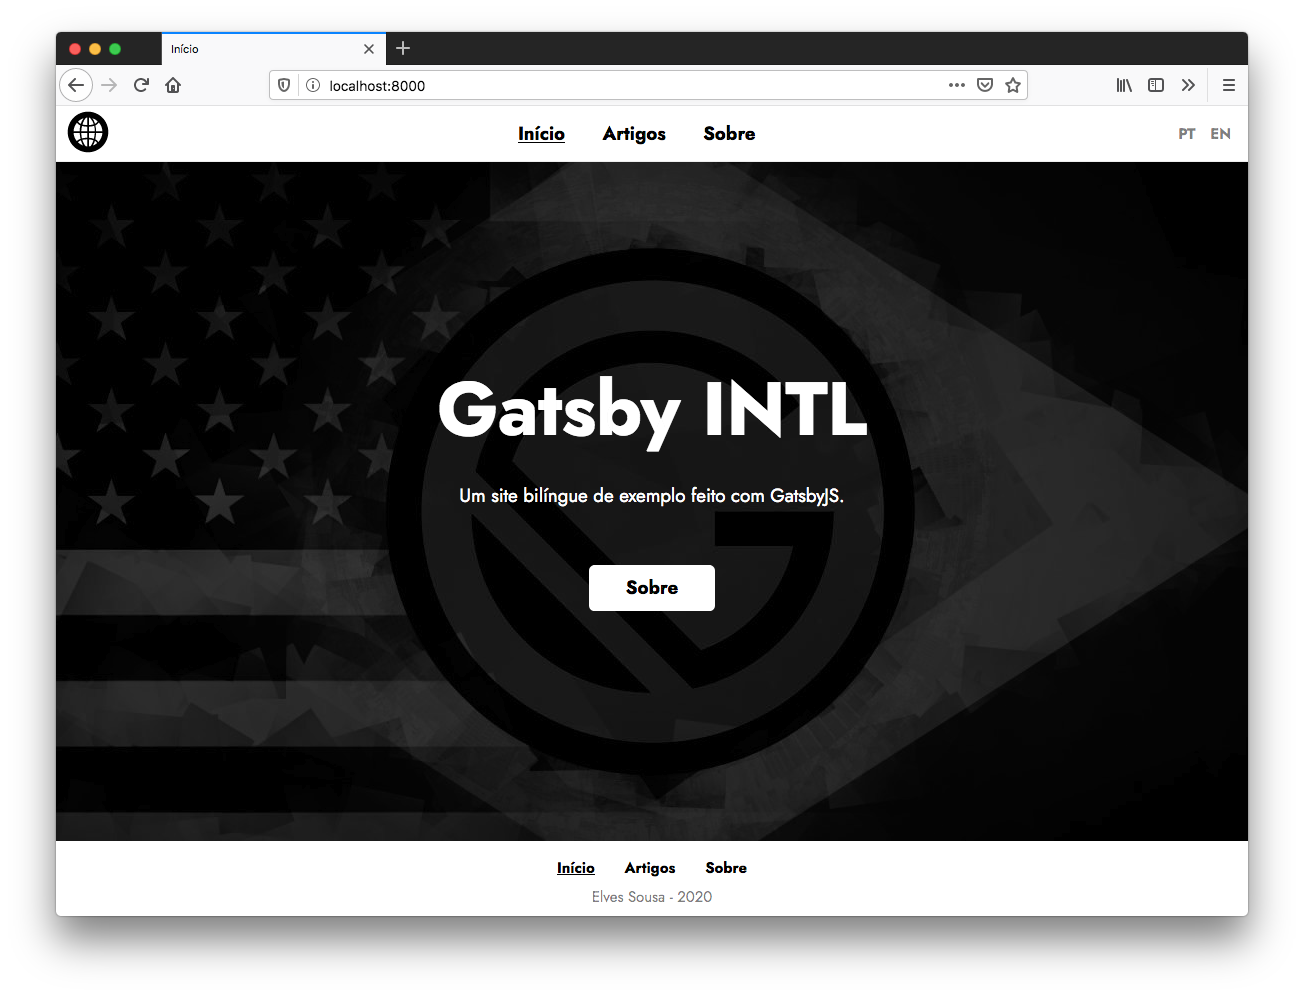
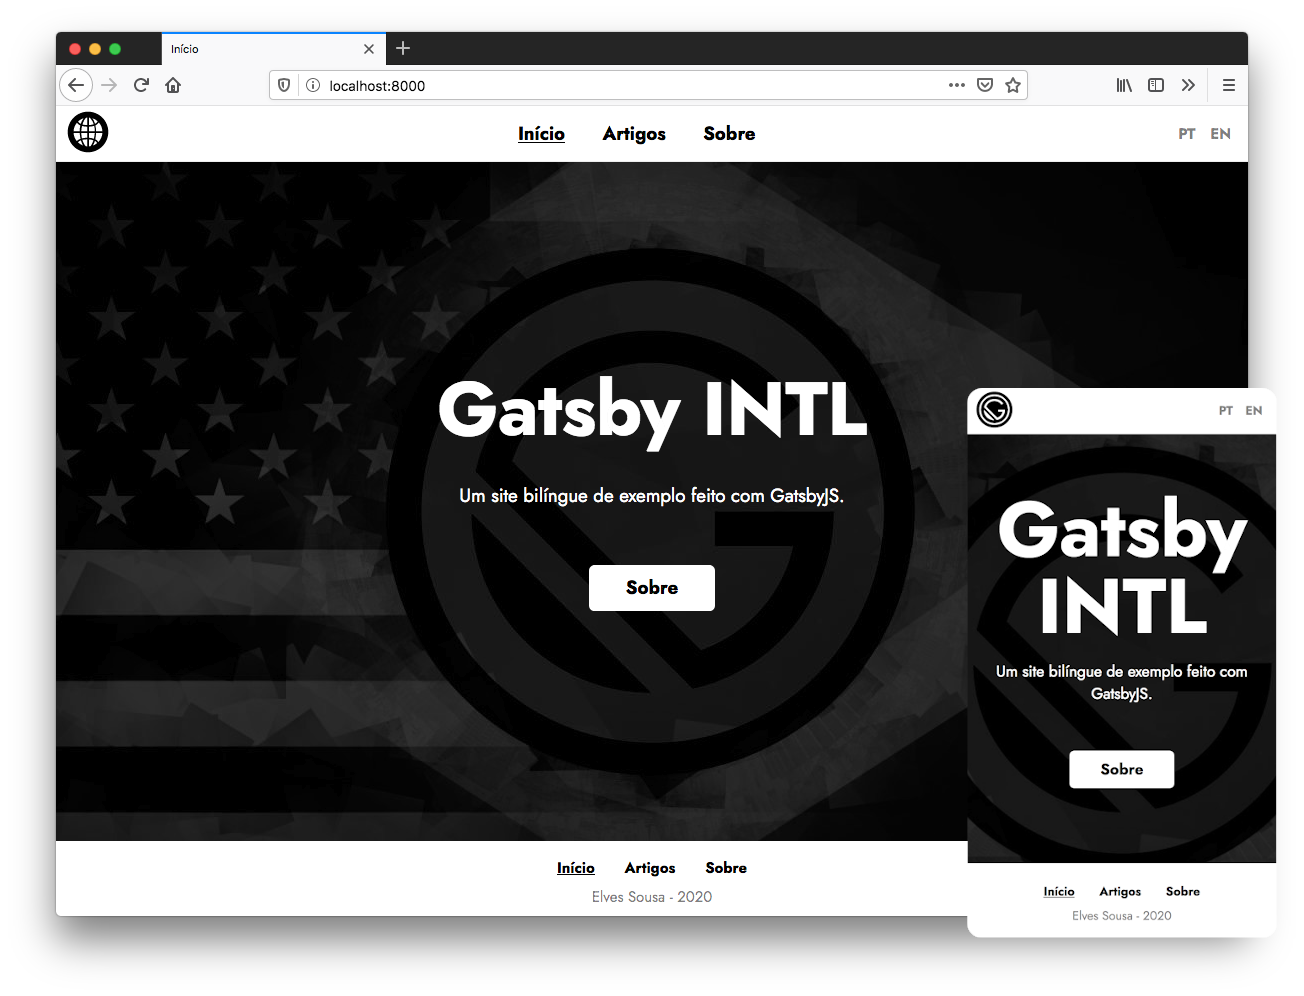
Responsive layout.

Changed region(s): [[0.7362, 0.3735, 0.9816, 0.9649], [0.7975, 0.747, 0.9202, 0.8092]]

diff --git a/src/styles/layout.css b/src/styles/layout.css
@@ -181,9 +181,30 @@ a {
   justify-content: center;
   flex-direction: column;
   margin-top: 2em;
+  text-align: center;
 }
 
 .footer p {
   margin: 0 0 2em;
   opacity: 0.5;
+}
+
+@media screen and (min-width: 15em) and (max-width: 47em) {
+  .header .navigation {
+    display: none;
+  }
+
+  .footer {
+    background-color: #fff;
+    position: fixed;
+    bottom: 0;
+    left: 0;
+    right: 0;
+    border-top: 1px solid #eee;
+    padding: 1em;
+  }
+
+  .footer p {
+    margin: 0;
+  }
 }

diff --git a/src/components/Footer/index.js b/src/components/Footer/index.js
@@ -7,8 +7,10 @@ export default function Layout({ className, children, title }) {
 
   return (
     <footer className={footerClass}>
-      <Navigation />
-      {children}
+      <div className="footer-content">
+        <Navigation />
+        {children}
+      </div>
     </footer>
   );
 }
